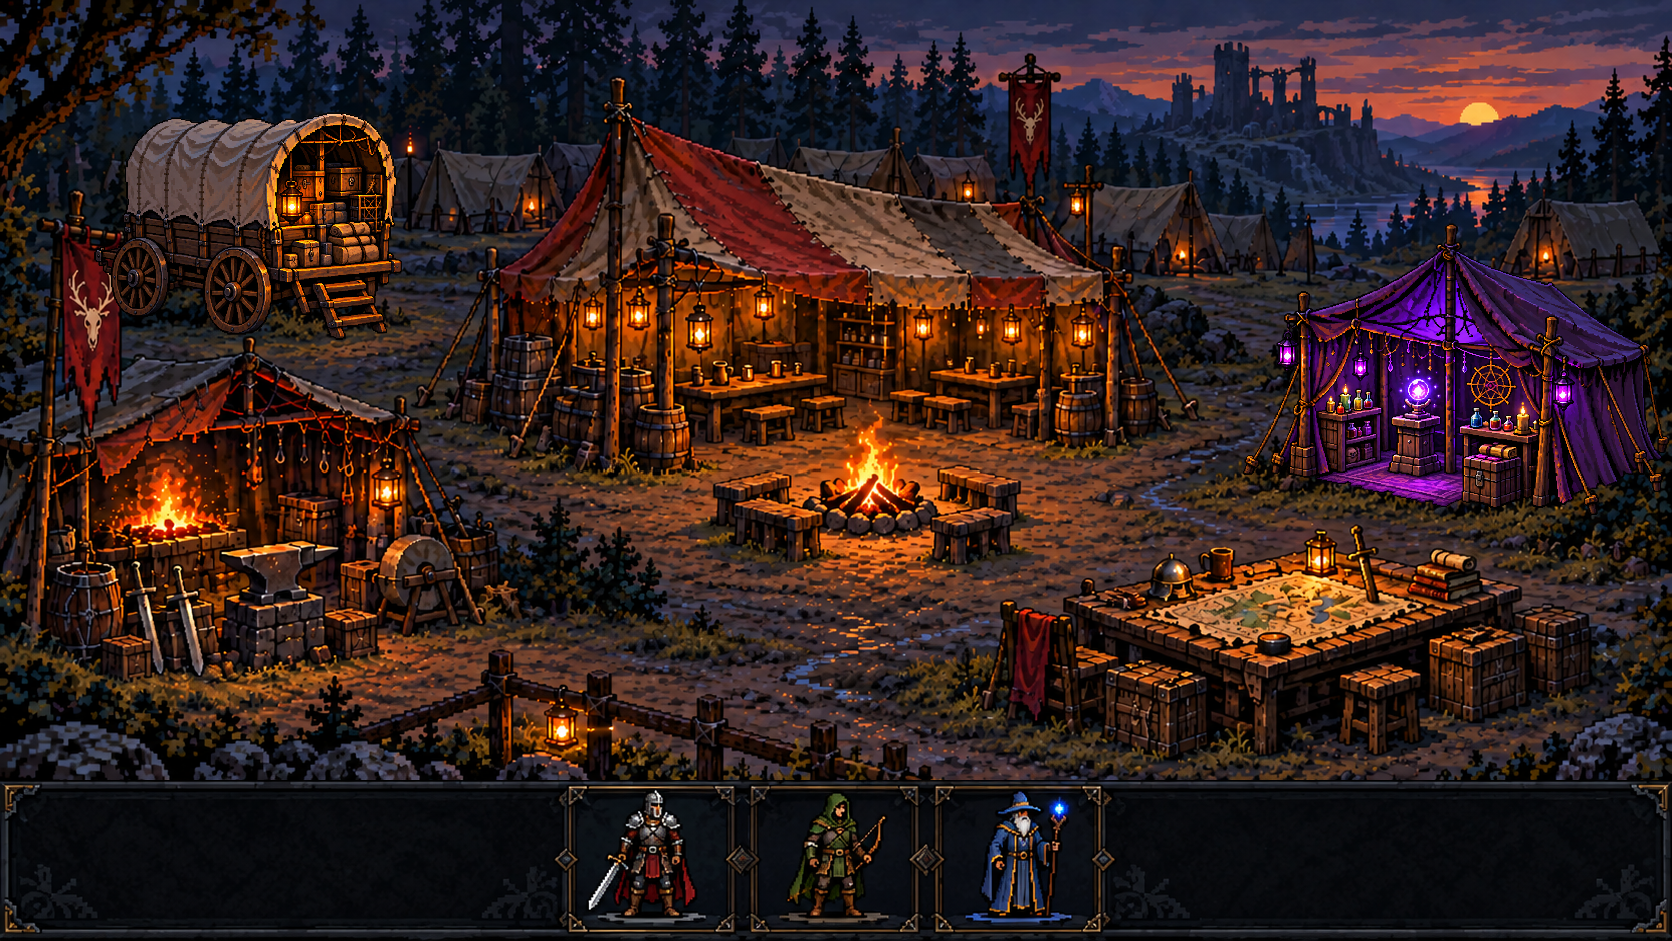
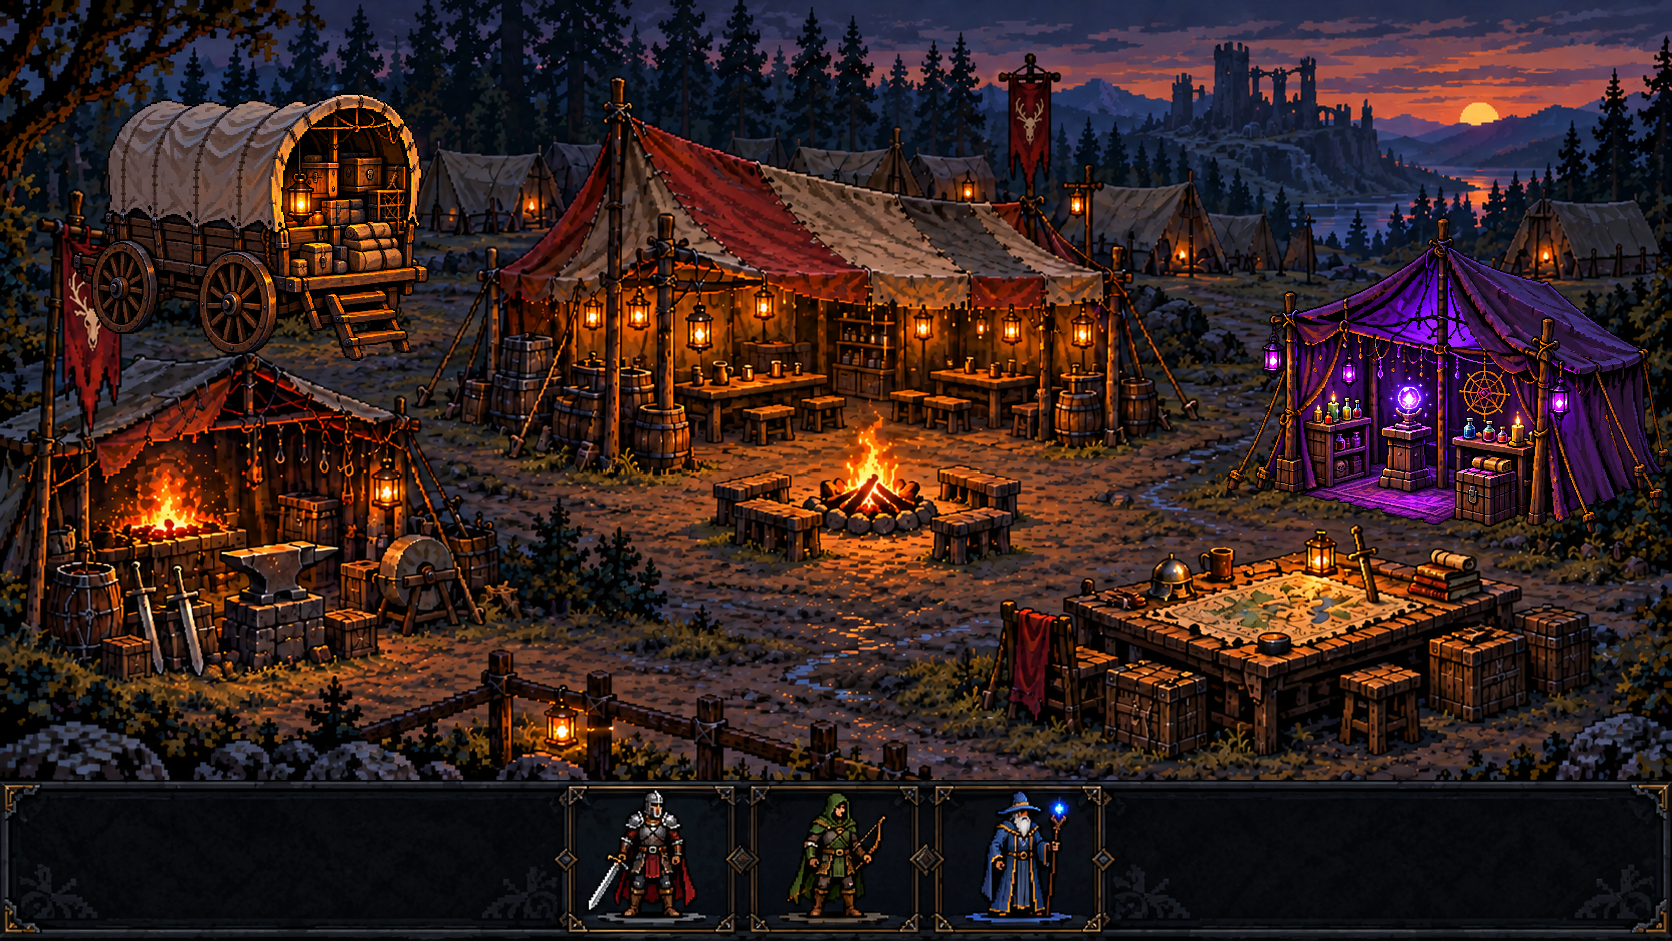
fix(ALTA-53): make raster verification reproducible

Changed region(s): [[0.7153, 0.2157, 1.0, 0.5547], [0.0311, 0.0925, 0.2799, 0.4006]]

diff --git a/scripts/build-camp-modular.swift b/scripts/build-camp-modular.swift
@@ -16,6 +16,35 @@ struct Layer {
   let y: Int
 }
 
+struct Manifest: Decodable {
+  let canvas: ManifestCanvas
+  let layers: [ManifestLayer]
+  let compositions: [String: [String]]
+}
+
+struct ManifestCanvas: Decodable {
+  let width: Int
+  let height: Int
+}
+
+struct ManifestLayer: Decodable {
+  let id: String
+  let file: String
+  let width: Int
+  let height: Int
+  let x: Int
+  let y: Int
+  let zIndex: Int
+  let alphaBBox: ManifestRect?
+}
+
+struct ManifestRect: Decodable {
+  let x: Int
+  let y: Int
+  let width: Int
+  let height: Int
+}
+
 func loadPNG(_ path: String) throws -> CGImage {
   let url = URL(fileURLWithPath: path) as CFURL
   guard let source = CGImageSourceCreateWithURL(url, nil),
@@ -107,6 +136,23 @@ func alphaRange(_ image: CGImage) throws -> ClosedRange<UInt8> {
   return minimum...maximum
 }
 
+func clearedAlphaFringe(_ image: CGImage, threshold: UInt8 = 3) throws -> CGImage {
+  let context = try makeContext(width: image.width, height: image.height)
+  context.draw(image, in: CGRect(x: 0, y: 0, width: image.width, height: image.height))
+  guard let data = context.data else { throw RasterError(description: "Unable to normalize alpha fringe") }
+  let bytes = data.bindMemory(to: UInt8.self, capacity: image.width * image.height * 4)
+  for pixel in 0..<(image.width * image.height) where bytes[pixel * 4 + 3] <= threshold {
+    bytes[pixel * 4] = 0
+    bytes[pixel * 4 + 1] = 0
+    bytes[pixel * 4 + 2] = 0
+    bytes[pixel * 4 + 3] = 0
+  }
+  guard let result = context.makeImage() else {
+    throw RasterError(description: "Unable to render normalized alpha image")
+  }
+  return result
+}
+
 func trimmed(_ image: CGImage, padding: Int = 4) throws -> CGImage {
   let bounds = try alphaBounds(image)
   let x = max(0, Int(bounds.minX) - padding)
@@ -146,48 +192,117 @@ func contrastSheet(_ image: CGImage) throws -> CGImage {
   return result
 }
 
-guard CommandLine.arguments.count == 5 else {
-  fputs("usage: build-camp-modular.swift REFERENCE BASE STASH APPRAISER\n", stderr)
-  exit(2)
+func loadManifest(_ path: String) throws -> Manifest {
+  try JSONDecoder().decode(Manifest.self, from: Data(contentsOf: URL(fileURLWithPath: path)))
+}
+
+func manifestLayer(_ id: String, in manifest: Manifest) throws -> ManifestLayer {
+  guard let layer = manifest.layers.first(where: { $0.id == id }) else {
+    throw RasterError(description: "Manifest layer not found: \(id)")
+  }
+  return layer
+}
+
+func renderedPixels(_ image: CGImage) throws -> Data {
+  let context = try makeContext(width: image.width, height: image.height)
+  context.draw(image, in: CGRect(x: 0, y: 0, width: image.width, height: image.height))
+  guard let data = context.data else { throw RasterError(description: "Unable to read rendered pixels") }
+  return Data(bytes: data, count: image.width * image.height * 4)
+}
+
+func compose(_ ids: [String], manifest: Manifest, output: String) throws -> CGImage {
+  let layers = try ids.map { id -> Layer in
+    let item = try manifestLayer(id, in: manifest)
+    let image = try loadPNG("\(output)/\(item.file)")
+    return Layer(name: id, image: image, x: item.x, y: item.y)
+  }
+  return try render(width: manifest.canvas.width, height: manifest.canvas.height, layers: layers)
+}
+
+func verify(manifest: Manifest, output: String) throws {
+  for item in manifest.layers {
+    let image = try loadPNG("\(output)/\(item.file)")
+    guard image.width == item.width, image.height == item.height else {
+      throw RasterError(description: "Dimension mismatch for \(item.file): \(image.width)x\(image.height)")
+    }
+    if let expected = item.alphaBBox {
+      let actual = try alphaBounds(image)
+      let matches = Int(actual.minX) == expected.x && Int(actual.minY) == expected.y
+        && Int(actual.width) == expected.width && Int(actual.height) == expected.height
+      guard matches else { throw RasterError(description: "Alpha bounds mismatch for \(item.file): \(actual)") }
+      guard try alphaRange(image) == UInt8.min...UInt8.max else {
+        throw RasterError(description: "Expected full transparent/opaque alpha range in \(item.file)")
+      }
+    }
+  }
+  for (file, ids) in manifest.compositions {
+    let rebuilt = try compose(ids, manifest: manifest, output: output)
+    let committed = try loadPNG("\(output)/\(file)")
+    guard try renderedPixels(rebuilt) == renderedPixels(committed) else {
+      throw RasterError(description: "Pixel mismatch in composition: \(file)")
+    }
+  }
 }
 
 let root = FileManager.default.currentDirectoryPath
 let output = "\(root)/public/images/game/camp-modular"
-let reference = try loadPNG(CommandLine.arguments[1])
-let generatedBase = try loadPNG(CommandLine.arguments[2])
-let generatedStash = try trimmed(loadPNG(CommandLine.arguments[3]))
-let generatedAppraiser = try trimmed(loadPNG(CommandLine.arguments[4]))
+let manifest = try loadManifest("\(output)/manifest.json")
 
-let canvasWidth = reference.width
-let canvasHeight = reference.height
-let base = try resized(generatedBase, width: canvasWidth, height: canvasHeight)
-let stashWidth = 360
-let stashHeight = Int((Double(generatedStash.height) / Double(generatedStash.width) * Double(stashWidth)).rounded())
-let appraiserWidth = 447
-let appraiserHeight = Int((Double(generatedAppraiser.height) / Double(generatedAppraiser.width) * Double(appraiserWidth)).rounded())
-let stash = try resized(generatedStash, width: stashWidth, height: stashHeight)
-let appraiser = try resized(generatedAppraiser, width: appraiserWidth, height: appraiserHeight)
-let heroesUI = try cropped(reference, x: 0, y: 780, width: canvasWidth, height: canvasHeight - 780)
+if CommandLine.arguments.count == 2 && CommandLine.arguments[1] == "--verify" {
+  try verify(manifest: manifest, output: output)
+  print("verification=ok")
+  exit(0)
+}
 
-let stashLayer = Layer(name: "stashWagon", image: stash, x: 70, y: 91)
-let appraiserLayer = Layer(name: "appraiser", image: appraiser, x: 1225, y: 215)
-let uiLayer = Layer(name: "heroesUI", image: heroesUI, x: 0, y: 780)
-let baseLayer = Layer(name: "campBase", image: base, x: 0, y: 0)
+let defaultSources = [
+  "\(root)/references/alta-53/01-campamento-anochecer-v2.png",
+  "\(root)/references/alta-53/imagegen/camp-base-selected.png",
+  "\(root)/references/alta-53/imagegen/stash-wagon-selected.png",
+  "\(root)/references/alta-53/imagegen/appraiser-selected.png"
+]
+let sources: [String]
+if CommandLine.arguments.count == 1 {
+  sources = defaultSources
+} else if CommandLine.arguments.count == 5 {
+  sources = Array(CommandLine.arguments.dropFirst())
+} else {
+  fputs("usage: build-camp-modular.swift [--verify | REFERENCE BASE STASH APPRAISER]\n", stderr)
+  exit(2)
+}
 
-try savePNG(base, to: "\(output)/camp-base.png")
-try savePNG(stash, to: "\(output)/expansion-stash-wagon.png")
-try savePNG(appraiser, to: "\(output)/expansion-appraiser.png")
-try savePNG(heroesUI, to: "\(output)/heroes-ui-strip.png")
-try savePNG(try render(width: canvasWidth, height: canvasHeight, layers: [baseLayer, uiLayer]), to: "\(output)/comparison-base.png")
-try savePNG(try render(width: canvasWidth, height: canvasHeight, layers: [baseLayer, stashLayer, appraiserLayer, uiLayer]), to: "\(output)/comparison-expanded.png")
+let reference = try loadPNG(sources[0])
+let generatedBase = try loadPNG(sources[1])
+let generatedStash = try trimmed(clearedAlphaFringe(loadPNG(sources[2])))
+let generatedAppraiser = try trimmed(clearedAlphaFringe(loadPNG(sources[3])))
+guard reference.width == manifest.canvas.width, reference.height == manifest.canvas.height else {
+  throw RasterError(description: "Reference dimensions do not match manifest canvas")
+}
+
+let baseSpec = try manifestLayer("campBase", in: manifest)
+let stashSpec = try manifestLayer("stashWagon", in: manifest)
+let appraiserSpec = try manifestLayer("appraiser", in: manifest)
+let uiSpec = try manifestLayer("heroesUI", in: manifest)
+let base = try resized(generatedBase, width: baseSpec.width, height: baseSpec.height)
+let stash = try resized(generatedStash, width: stashSpec.width, height: stashSpec.height)
+let appraiser = try resized(generatedAppraiser, width: appraiserSpec.width, height: appraiserSpec.height)
+let heroesUI = try cropped(reference, x: 0, y: uiSpec.y, width: uiSpec.width, height: uiSpec.height)
+
+for (spec, image) in [(baseSpec, base), (stashSpec, stash), (appraiserSpec, appraiser), (uiSpec, heroesUI)] {
+  try savePNG(image, to: "\(output)/\(spec.file)")
+}
+for (file, ids) in manifest.compositions {
+  try savePNG(try compose(ids, manifest: manifest, output: output), to: "\(output)/\(file)")
+}
 try savePNG(try contrastSheet(stash), to: "\(root)/.multica/verify-stash-contrast.png")
 try savePNG(try contrastSheet(appraiser), to: "\(root)/.multica/verify-appraiser-contrast.png")
+try verify(manifest: manifest, output: output)
 
-print("canvas=\(canvasWidth)x\(canvasHeight)")
-print("stash=\(stash.width)x\(stash.height)@70,91")
-print("appraiser=\(appraiser.width)x\(appraiser.height)@1225,215")
-print("heroesUI=\(heroesUI.width)x\(heroesUI.height)@0,780")
+print("canvas=\(manifest.canvas.width)x\(manifest.canvas.height)")
+print("stash=\(stash.width)x\(stash.height)@\(stashSpec.x),\(stashSpec.y)")
+print("appraiser=\(appraiser.width)x\(appraiser.height)@\(appraiserSpec.x),\(appraiserSpec.y)")
+print("heroesUI=\(heroesUI.width)x\(heroesUI.height)@\(uiSpec.x),\(uiSpec.y)")
 print("stashAlphaBBox=\(try alphaBounds(stash))")
 print("appraiserAlphaBBox=\(try alphaBounds(appraiser))")
 print("stashAlphaRange=\(try alphaRange(stash))")
 print("appraiserAlphaRange=\(try alphaRange(appraiser))")
+print("verification=ok")

diff --git a/public/images/game/camp-modular/README.md b/public/images/game/camp-modular/README.md
@@ -19,11 +19,25 @@ This directory decomposes the approved ALTA-51 camp composition into a clean bas
 - `comparison-base.png`: `campBase + heroesUI`.
 - `comparison-expanded.png`: `campBase + stashWagon + appraiser + heroesUI`.
 
-Coordinates use a top-left origin and a top-left anchor. The expanded scene below the UI is made exclusively from `camp-base.png` and the two expansion PNGs. Run `scripts/build-camp-modular.swift` after compiling it with `swiftc` to reproduce the sizing, placement, UI extraction, and comparisons from the approved reference and the three selected ImageGen outputs.
+Coordinates use a top-left origin and a top-left anchor. The expanded scene below the UI is made exclusively from `camp-base.png` and the two expansion PNGs. Rebuild and verify from the tracked sources with:
+
+```sh
+swiftc scripts/build-camp-modular.swift -o .multica/build-camp-modular
+.multica/build-camp-modular
+.multica/build-camp-modular --verify
+```
+
+Build mode reads every dimension and placement from `manifest.json`. Verify mode reloads that manifest, validates dimensions, alpha ranges and alpha bounds, recomposes both comparisons, and fails unless their RGBA pixels match the committed images exactly.
 
 ### Generation method and prompts
 
-All three raster assets were produced with the built-in ImageGen tool. The approved ALTA-51 image was the edit target for the clean base and the explicit subject/style reference for both transparent pieces.
+All three raster assets were produced with the built-in ImageGen tool. The approved ALTA-51 attachment is tracked for this task at `references/alta-53/01-campamento-anochecer-v2.png`; it was the edit target for the clean base and the explicit subject/style reference for both transparent pieces. The selected ImageGen sources are tracked separately from finals:
+
[3 lines of base64/hex data omitted]
+
+The builder clears only near-transparent fringe pixels (alpha 1–3) before trimming, then preserves the remaining alpha range. This leaves a one-pixel transparent margin around both final pieces and avoids invisible border specks affecting layout bounds.
 
 Base prompt:
 
